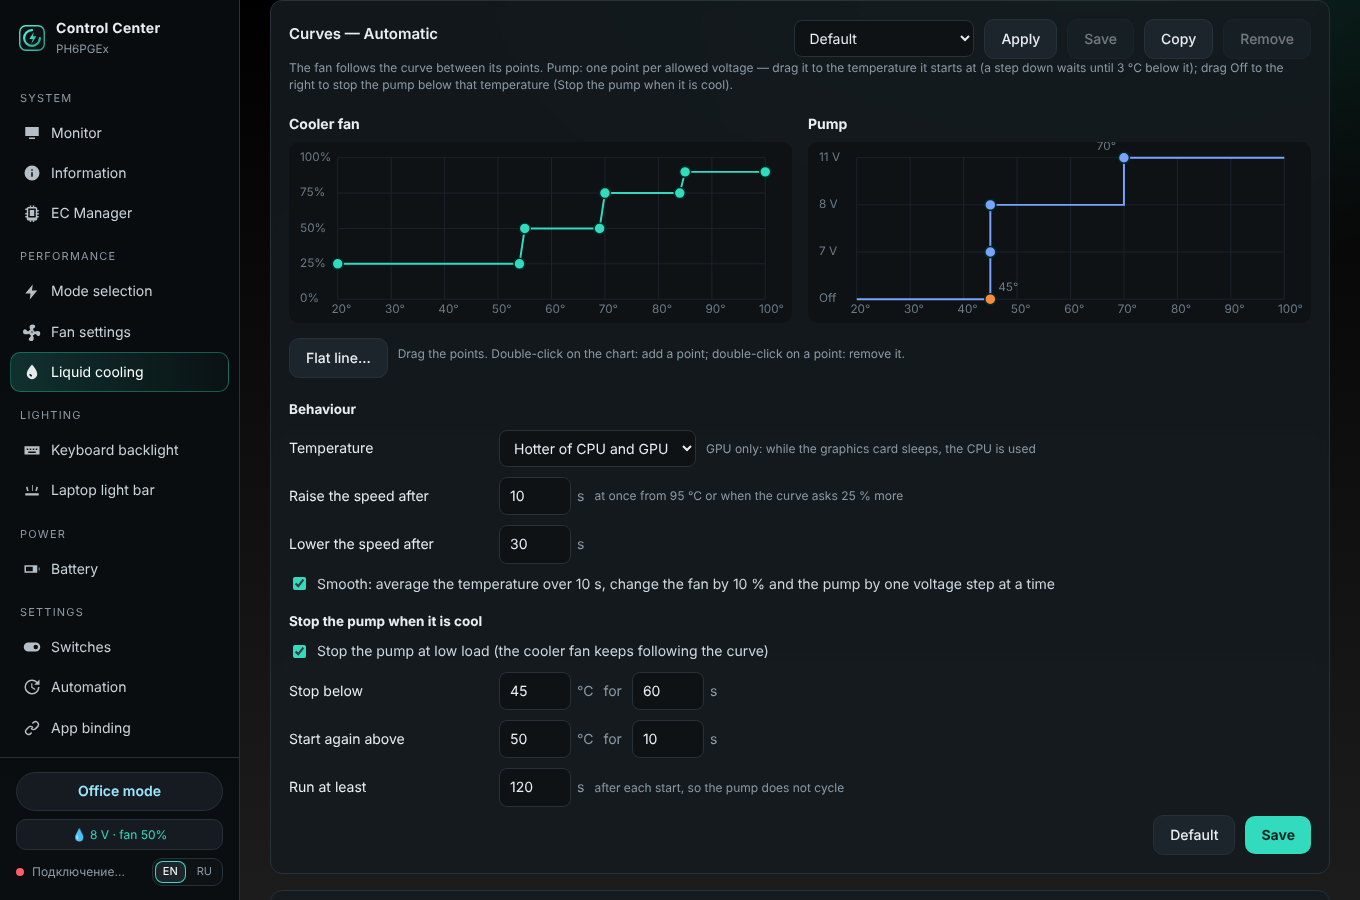
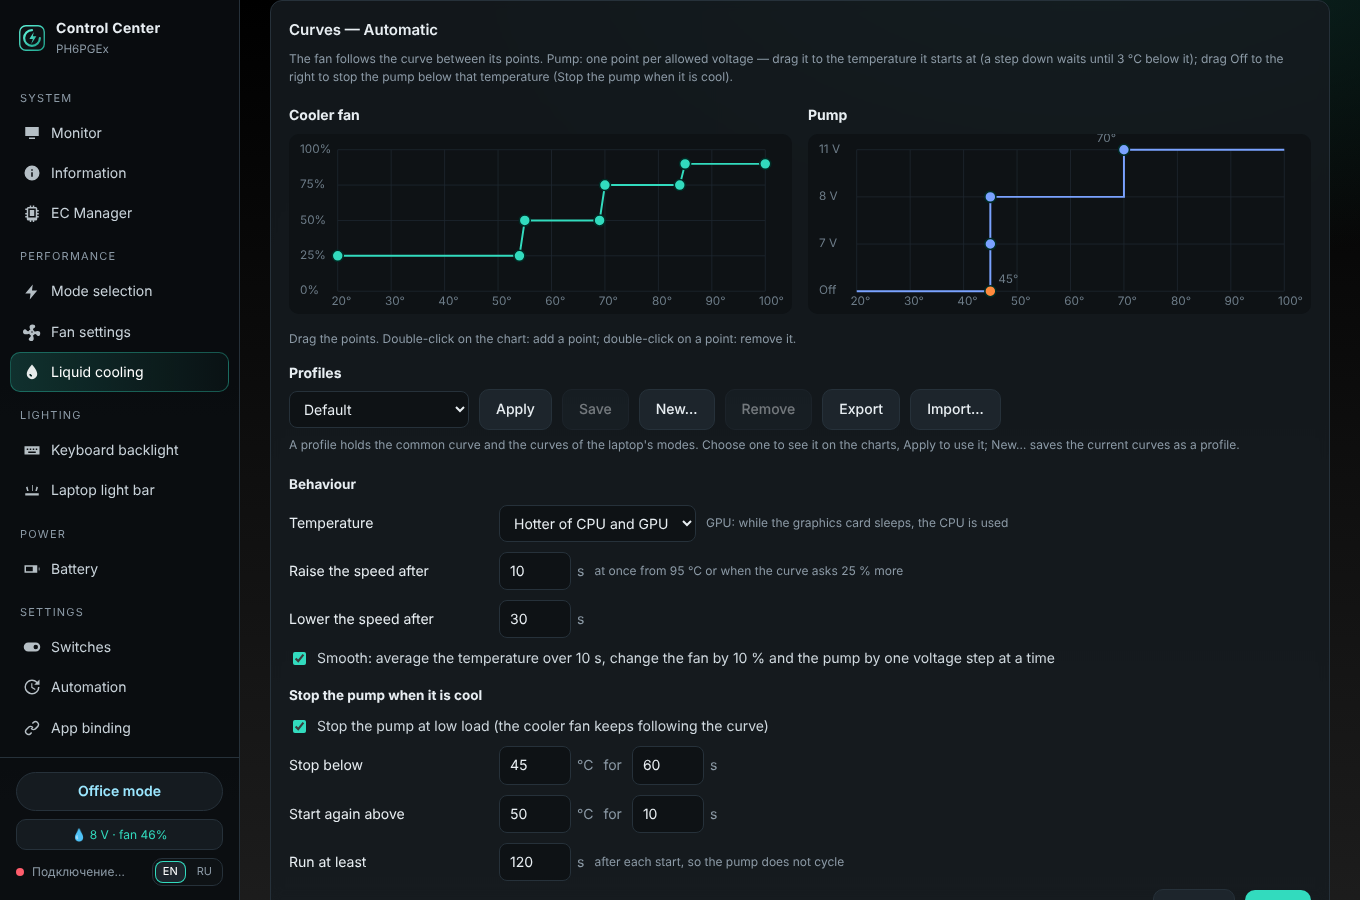
1.6.8: automatic profile switching, liquid cooler curves and profiles, own pump voltage limits

diff --git a/uwccd/web/app.js b/uwccd/web/app.js
@@ -543,18 +543,17 @@ function drawCurveNow() {
   const temp = gpu ? (m.gpu && !m.gpu.asleep ? m.gpu.temp : null) : m.cpu && m.cpu.temp;
   const duty = gpu ? m.fans.gpu_duty : m.fans.cpu_duty, rpm = gpu ? m.fans.gpu_rpm : m.fans.cpu_rpm;
   if (temp == null || duty == null) return;
-  // the dot lies on the curve at this sensor's temperature; the label has the real speed. When the fan runs clearly
-  // faster than its own curve, the EC drives it by the other side (on many models both fans follow the hotter one).
+  // the dot lies on the curve at this sensor's temperature; the label has the real speed (on many models the EC runs
+  // both fans by the hotter side, so the speed can be above this curve)
   const pts = activePts(); let lvl = pts[0];
   for (const p of pts) if (p.i === 0 || p.UpT <= temp) lvl = p;
   const own = lvl ? lvl.Duty : duty;
   const x = CX(Math.max(20, Math.min(100, temp))), y = CY(Math.max(0, Math.min(100, own)));
-  const by = duty > own + 3 ? " " + t("(driven by {0})", gpu ? "CPU" : "GPU") : "";
-  const label = `${temp} °C · ${rpm != null ? rpm + " " + t("rpm") : duty + " %"}${by}`;
+  const label = `${temp} °C · ${rpm != null ? rpm + " " + t("rpm") : duty + " %"}`;
   const c = document.createElementNS("http://www.w3.org/2000/svg", "circle");
   c.setAttribute("class", "now"); c.setAttribute("r", "6"); c.setAttribute("cx", x); c.setAttribute("cy", y);
   const tt = document.createElementNS("http://www.w3.org/2000/svg", "title");
-  tt.textContent = t("Now: {0} °C · {1} %", temp, duty) + (rpm != null ? ` · ${rpm} ${t("rpm")}` : "") + by; c.append(tt);
+  tt.textContent = t("Now: {0} °C · {1} %", temp, duty) + (rpm != null ? ` · ${rpm} ${t("rpm")}` : ""); c.append(tt);
   const tx = document.createElementNS("http://www.w3.org/2000/svg", "text"), left = x > 470, up = y > 246;
   tx.setAttribute("class", "now nowlbl"); tx.setAttribute("x", left ? x - 10 : x + 10); tx.setAttribute("y", up ? y - 12 : y + 22);
   tx.setAttribute("text-anchor", left ? "end" : "start"); tx.textContent = label;
@@ -1329,14 +1328,8 @@ function drawCurves(L) {
   const active = !pick && L.connected && ["auto", "laptop", "ec"].includes(c.mode) && L.curve_key === key ? L : null;
   const ed = $("#lc-editors"); ed.innerHTML = "";
   ed.append(lcFanEditor(set, key, readonly, active), lcPumpEditor(set, key, readonly, active));
-  $("#lc-flat").disabled = readonly;
-  for (const id of ["lc-prof", "lc-prof-apply", "lc-prof-save", "lc-prof-copy", "lc-prof-remove"]) if (viewOnly) $("#" + id).disabled = true;
-  if (!viewOnly) { $("#lc-prof").disabled = false; $("#lc-prof-copy").disabled = !!pick; }
-  $("#lc-flat").onclick = () => {
-    const v = prompt(t("Fan duty for the whole curve, %"), String(set.fan[set.fan.length - 1][1]));
-    if (v === null) return; const n = Math.max(0, Math.min(100, parseInt(v, 10) || 0));
-    lcPostCurve(key, { fan: [[LCX0, n], [LCX1, n]], pump: set.pump });
-  };
+  for (const id of ["lc-prof", "lc-prof-apply", "lc-prof-save", "lc-prof-copy", "lc-prof-remove", "lc-prof-import"]) if (viewOnly) $("#" + id).disabled = true;
+  if (!viewOnly) { $("#lc-prof").disabled = $("#lc-prof-import").disabled = false; $("#lc-prof-copy").disabled = !!pick; if (pick) $("#lc-prof-save").disabled = true; }
 }
 $("#lc-own").addEventListener("change", e => {
   const L = S.liquid; lcPostCurve(lcTab, e.target.checked ? JSON.parse(JSON.stringify(L.curves.common)) : null);
@@ -1363,7 +1356,7 @@ function lcCross(svg, P, temp, yv, label, flip) {      // the current point: a r
   d.append(lcEl("title", {}, label)); svg.append(d);
   lcNowLabel(svg, x, y, label, P.right, P.bot, flip);
 }
-// The red dots follow the temperature source: CPU only / GPU only (the CPU while the GPU sleeps) / both — two dots.
+// The red dots follow the temperature source: CPU / GPU (the CPU while the GPU sleeps) / both — two dots.
 // The sensor that drives the cooler shows the cooler's real output; the other one shows its point on the curve.
 function lcSensorDots(L) {
   const src = (lcCalm && lcCalm.temp_source) || L.config.temp_source || "max", m = lastMonitor;
@@ -1552,6 +1545,27 @@ $("#lc-prof-copy").addEventListener("click", () => {
   const n = prompt(t("Name of the new cooler profile"), ""); if (n && n.trim()) lcProf("copy", { name: n.trim() }, t("Profile saved"));
 });
 $("#lc-prof-remove").addEventListener("click", () => { if (confirm(t("Remove this cooler profile?"))) lcProf("remove", {}, t("Removed")); });
+// export: the chosen profile (or the current curves) as a JSON file; import: such a file becomes an own profile
+$("#lc-prof-export").addEventListener("click", () => {
+  const L = S.liquid, sel = $("#lc-prof"), p = L.profiles.find(x => x.id === sel.value);
+  const name = p ? sel.options[sel.selectedIndex].textContent.replace(/ · .*$/, "") : t("Current curves");
+  const data = { format: "uwcc-cooler-profile", version: 1, name, curves: p ? p.curves : L.curves };
+  const blob = new Blob([JSON.stringify(data, null, 2) + "\n"], { type: "application/json" });
+  const fn = "uwcc-cooler-" + (name.toLowerCase().replace(/[^a-z0-9а-яё]+/gi, "-").replace(/^-+|-+$/g, "") || "profile") + ".json";
+  const el = h("a", { href: URL.createObjectURL(blob), download: fn }); document.body.append(el); el.click(); el.remove();
+});
+$("#lc-prof-import").addEventListener("click", () => { const f = $("#lc-prof-file"); f.value = ""; f.click(); });
+$("#lc-prof-file").addEventListener("change", async e => {
+  const f = e.target.files && e.target.files[0]; if (!f) return;
+  let d;
+  try { d = JSON.parse(await f.text()); } catch (_) { return toast(t("This is not a cooler profile file"), true); }
+  if (!d || typeof d !== "object" || !d.curves) return toast(t("This is not a cooler profile file"), true);
+  const name = prompt(t("Name of the new cooler profile"), String(d.name || f.name.replace(/\.json$/i, "")).slice(0, 40));
+  if (!name || !name.trim()) return;
+  let rid = null;
+  await act(async () => { rid = (await api("lc/profile", { action: "import", name: name.trim(), curves: d.curves })).id; }, t("Profile imported"));
+  if (rid) { lcPick = rid; drawCurves(S.liquid); }      // shown on the charts; Apply uses it
+});
 // delays, smoothing, temperature source, pump stop when cool (auto / Controller modes)
 let lcCalm = null;
 function drawCalm(L) {
@@ -1570,12 +1584,12 @@ function drawCalm(L) {
     return h("label", { class: "chk" }, e, " ", h("span", {}, label));
   };
   const line = (label, ...ctrl) => h("div", { class: "calm-row" }, h("span", {}, label), h("div", { class: "row wrap", style: "gap:10px" }, ...ctrl));
-  const src = h("select", {}, ...[["max", "Hotter of CPU and GPU"], ["cpu", "CPU"], ["gpu", "GPU only"]].map(([v, n]) => {
+  const src = h("select", {}, ...[["max", "Hotter of CPU and GPU"], ["cpu", "CPU"], ["gpu", "GPU"]].map(([v, n]) => {
     const o = h("option", { value: v }, t(n)); if (k.temp_source === v) o.selected = true; return o; }));
   src.addEventListener("change", () => { k.temp_source = src.value; if (!lcDrag) drawCurves(S.liquid); });
   box.append(
     h("h4", {}, t("Behaviour")),
-    line(t("Temperature"), src, h("span", { class: "muted tiny" }, t("GPU only: while the graphics card sleeps, the CPU is used"))),
+    line(t("Temperature"), src, h("span", { class: "muted tiny" }, t("GPU: while the graphics card sleeps, the CPU is used"))),
     line(t("Raise the speed after"), num(k, "delay_up", 0, 300, t("s")), h("span", { class: "muted tiny" }, t("at once from 95 °C or when the curve asks 25 % more"))),
     line(t("Lower the speed after"), num(k, "delay_down", 0, 300, t("s"))),
     chk(k, "smooth", t("Smooth: average the temperature over 10 s, change the fan by 10 % and the pump by one voltage step at a time")),

diff --git a/uwccd/web/i18n.js b/uwccd/web/i18n.js
@@ -461,7 +461,7 @@ const RU = {
   // liquid cooler: calm control
   "Pump stopped: cool": "Помпа остановлена: прохладно",
   "Behaviour": "Поведение",
-  "GPU only: while the graphics card sleeps, the CPU is used": "Только GPU: пока видеокарта спит, используется CPU",
+  "GPU: while the graphics card sleeps, the CPU is used": "GPU: пока видеокарта спит, используется CPU",
   "Raise the speed after": "Повышать скорость через",
   "at once from 95 °C or 8 °C above the tier": "сразу при 95 °C или на 8 °C выше ступени",
   "Lower the speed after": "Понижать скорость через",
@@ -477,7 +477,6 @@ const RU = {
   "CPU + GPU": "CPU + GPU",
   "Switching to a lower tier also waits for the temperature to drop 3 °C below the threshold. In the Controller mode the table is used when the EC publishes no targets; the settings below apply to both modes.": "Переход на ступень ниже также ждёт, пока температура опустится на 3 °C ниже порога. В режиме «Контроллер» таблица используется, когда EC не публикует значения; настройки ниже действуют в обоих режимах.",
   "Hotter of CPU and GPU": "Более горячий из CPU и GPU",
-  "GPU only": "Только GPU",
   "Faster in {0} s if the temperature holds": "Быстрее через {0} с, если температура удержится",
   "Slower in {0} s if the temperature holds": "Медленнее через {0} с, если температура удержится",
   // 1.4.2: updates, report
@@ -834,7 +833,11 @@ Object.assign(RU, {
   "Now: {0} °C · {1} %": "Сейчас: {0} °C · {1} %",
   "The fan follows the curve between its points. Pump: one point per allowed voltage — drag it to the temperature it starts at (a step down waits until 3 °C below it); drag Off to the right to stop the pump below that temperature (Stop the pump when it is cool).":
     "Вентилятор следует кривой между точками. Помпа: по точке на каждое разрешённое напряжение — перетащите её на температуру, с которой оно включается (вниз — только на 3 °C ниже); перетащите «Выкл» вправо, чтобы помпа останавливалась ниже этой температуры («Останавливать помпу, когда прохладно»).",
-  "(driven by {0})": "(ведёт {0})", "Off: never": "Выкл: никогда", "Off below {0} °C": "Выкл ниже {0} °C",
+  "Profiles": "Профили", "New…": "Новый…", "Import…": "Импорт…", "Current curves": "Текущие кривые",
+  "A new profile from the current curves": "Новый профиль из текущих кривых", "Profile imported": "Профиль импортирован",
+  "This is not a cooler profile file": "Это не файл профиля охладителя",
+  "A profile holds the common curve and the curves of the laptop's modes. Choose one to see it on the charts, Apply to use it; New… saves the current curves as a profile.": "Профиль хранит общую кривую и кривые режимов ноутбука. Выберите профиль, чтобы увидеть его на графиках, «Применить» — чтобы включить; «Новый…» сохраняет текущие кривые как профиль.",
+  "Off: never": "Выкл: никогда", "Off below {0} °C": "Выкл ниже {0} °C",
   "Off: drag to the right to stop the pump when it is cool": "Выкл: перетащите вправо, чтобы помпа останавливалась, когда прохладно",
   "Off below {0} °C, on again from {1} °C (Stop the pump when it is cool)": "Выкл ниже {0} °C, снова вкл с {1} °C («Останавливать помпу, когда прохладно»)",
   "Own pump voltage limits": "Свои границы напряжения помпы", "At least one voltage must stay": "Должно остаться хотя бы одно напряжение",

diff --git a/uwccd/web/index.html b/uwccd/web/index.html
@@ -314,18 +314,22 @@
         </div>
 
         <div class="card" id="lc-curves-card">
-          <div class="row between wrap"><h3 id="lc-curves-title" data-i>Curves</h3>
-            <div class="row wrap lc-prof"><select id="lc-prof"></select>
-              <button class="btn ghost" id="lc-prof-apply" data-i>Apply</button>
-              <button class="btn ghost" id="lc-prof-save" data-i>Save</button>
-              <button class="btn ghost" id="lc-prof-copy" data-i>Copy</button>
-              <button class="btn ghost" id="lc-prof-remove" data-i>Remove</button></div></div>
+          <h3 id="lc-curves-title" data-i>Curves</h3>
           <p class="muted tiny" id="lc-curves-hint"></p>
           <div class="seg sm hidden" id="lc-curve-tabs"></div>
           <label class="chk hidden" id="lc-own-row"><input type="checkbox" id="lc-own"> <span id="lc-own-label"></span></label>
           <div class="lc-editors" id="lc-editors"></div>
-          <div class="row wrap" style="margin-top:6px"><button class="btn ghost" id="lc-flat" data-i>Flat line…</button>
-            <span class="muted tiny" data-i>Drag the points. Double-click on the chart: add a point; double-click on a point: remove it.</span></div>
+          <p class="muted tiny" style="margin:6px 0 0" data-i>Drag the points. Double-click on the chart: add a point; double-click on a point: remove it.</p>
+          <h4 class="lc-prof-h" data-i>Profiles</h4>
+          <div class="row wrap lc-prof"><select id="lc-prof"></select>
+            <button class="btn ghost" id="lc-prof-apply" data-i>Apply</button>
+            <button class="btn ghost" id="lc-prof-save" data-i>Save</button>
+            <button class="btn ghost" id="lc-prof-copy" data-i title="A new profile from the current curves">New…</button>
+            <button class="btn ghost" id="lc-prof-remove" data-i>Remove</button>
+            <button class="btn ghost" id="lc-prof-export" data-i>Export</button>
+            <button class="btn ghost" id="lc-prof-import" data-i>Import…</button>
+            <input type="file" id="lc-prof-file" accept=".json,application/json" class="hidden"></div>
+          <p class="muted tiny" id="lc-prof-hint" data-i>A profile holds the common curve and the curves of the laptop's modes. Choose one to see it on the charts, Apply to use it; New… saves the current curves as a profile.</p>
           <div class="lc-calm" id="lc-calm"></div>
           <div class="row" style="justify-content:flex-end;margin-top:8px"><button class="btn ghost" id="lc-calm-reset" data-i>Default</button><button class="btn" id="lc-calm-save" data-i>Save</button></div>
         </div>

diff --git a/uwccd/web/app.css b/uwccd/web/app.css
@@ -372,3 +372,5 @@ svg.lc-curve .pt.pt-off{fill:#ff8a3d}
 svg.lc-curve .pt.pt-off.idle{fill:#101418;stroke:#ff8a3d;stroke-width:2.5}
 .curve text.draglbl{fill:#e8f3f1;font-size:13px;font-weight:600;stroke:#101418;stroke-width:3px;paint-order:stroke;pointer-events:none}
 svg.lc-curve text.draglbl{font-size:16px}
+.lc-prof-h{margin:16px 0 6px}
+#lc-prof-hint{margin:6px 0 0}

diff --git a/uwccd/lc_curves.py b/uwccd/lc_curves.py
@@ -278,7 +278,7 @@ def modified(cfg):
 
 
 def profile_action(cfg, b):
-    """apply / save / copy / remove / rename -> changes cfg in place, returns the profile id concerned."""
+    """apply / save / copy / import / remove / rename -> changes cfg in place, returns the profile id concerned."""
     a = str(b.get("action", ""))
     user = cfg.setdefault("profiles", [])
     if a == "apply":
@@ -286,7 +286,7 @@ def profile_action(cfg, b):
         cfg["curves"] = copy.deepcopy(p["curves"])
         cfg["profile"] = p["id"]
         return p["id"]
-    if a == "copy":
+    if a in ("copy", "import"):
         name = str(b.get("name") or "").strip()[:40]
         if not name:
             raise ValueError("a name is needed")
@@ -297,8 +297,16 @@ def profile_action(cfg, b):
         ids = {p["id"] for p in profiles(cfg)}
         while pid in ids:
             pid, n = f"{base}-{n}", n + 1
-        user.append({"id": pid, "name": name, "curves": full(cfg.get("curves"))})
-        cfg["profile"] = pid
+        if a == "import":                         # a profile file: {"name": ..., "curves": {"common": ..., ...}}
+            cs = b.get("curves")
+            if not isinstance(cs, dict) or not cs.get("common"):
+                raise ValueError("a cooler profile needs curves with a common curve")
+            curves = check_curves(cs, None, ALL_VOLTAGES)
+        else:
+            curves = full(cfg.get("curves"))
+        user.append({"id": pid, "name": name, "curves": curves})
+        if a == "copy":                           # the current curves now are this profile; an import is only added
+            cfg["profile"] = pid
         return pid
     pid = str(b.get("id", ""))
     if pid in BUILTIN_PROFILES:

diff --git a/tests/test_mock.py b/tests/test_mock.py
@@ -825,6 +825,16 @@ class LiquidCoolerUnit(unittest.TestCase):
         lc.profile({"action": "apply", "id": "quiet"})
         lc.profile({"action": "apply", "id": "my-silent"})
         self.assertEqual(lc.status()["curves"]["common"]["fan"], [[40, 50], [60, 60]])
+        imp = lc.profile({"action": "import", "name": "From file",
+                          "curves": {"common": {"fan": [[30, 20], [90, 100]], "pump": [[0, 8], [60, 11]]}}})
+        self.assertEqual(imp, "from-file")
+        self.assertEqual(lc.status()["profile"], "my-silent")                  # an import is only added
+        self.assertEqual(LCV.find(lc.cfg, "from-file")["curves"]["common"]["fan"], [[30, 20], [90, 100]])
+        with self.assertRaises(ValueError):
+            lc.profile({"action": "import", "name": "Bad", "curves": {"common": {"fan": [[30, 50]], "pump": [[0, 8]]}}})
+        with self.assertRaises(ValueError):
+            lc.profile({"action": "import", "name": "Empty", "curves": {}})
+        lc.profile({"action": "remove", "id": "from-file"})
         lc.profile({"action": "rename", "id": "my-silent", "name": "Night"})
         lc.profile({"action": "remove", "id": "my-silent"})
         self.assertNotIn("my-silent", [p["id"] for p in lc.status()["profiles"]])

diff --git a/CHANGELOG.md b/CHANGELOG.md
@@ -10,8 +10,6 @@
   change the mode. Templates, reordering; `uwccctl rules [list|export|import|enable|disable|clear]`.
 - **Fan settings: a red dot shows the fan's current temperature and speed** on the curve of the active table
   (CPU or GPU, with full monitoring): it lies on the curve at the sensor's temperature, the label has the real rpm.
-  When the fan runs clearly faster than its own curve, the label says *(driven by CPU / GPU)* — on many models the EC
-  runs both fans by the hotter side.
 - **Dragging a point** on any chart (fan settings, cooler fan, pump, Off) shows its temperature and value next to it.
 - **Fan settings: the *Off, °C* row is hidden.** The return to the lower level follows the next level's *On* by
   itself (keeping the distance the table had); *Show the return temperatures* brings the row back.
@@ -19,7 +17,7 @@
   - **Modes in two rows:** Automatic, Follow the laptop, Controller, Manual / High, Medium, Low, Off.
   - **Automatic** follows a **fan curve** (2..17 points, linear between them) and **pump steps** (off / 7 / 8 / 11 V; a step
     down waits until 3 °C below it). Both are edited by dragging the points (double-click adds / removes a point);
-    a red dot shows the current temperature and value, labelled with them. *Flat line…* makes a fixed duty.
+    a red dot shows the current temperature and value, labelled with them.
   - **Follow the laptop** uses the same **common** curve, or **its own curve** for each laptop mode (tabs Common /
     Office / Gaming / Turbo / Custom, *Own curve for this mode*). A mode change switches the curve at once; the fan
     still ramps. The Controller mode falls back to the common curve when the EC publishes no targets.
@@ -31,12 +29,13 @@
     (after the minimum run time) and starts again a few degrees above it. The pump curve itself has no Off level any
     more (an older curve's leading Off step is dropped).
   - **Cooler profiles:** Default (the factory steps of 1.6.7), Quiet, Balanced, Performance and your own — Apply / Save /
-    Copy / Remove (a profile holds the common and the per-mode curves); a profile picked in the list is shown on the
-    charts before Apply; `uwccctl lc profile …`.
+    New… / Remove / Export / Import… (a profile holds the common and the per-mode curves; a profile file is JSON),
+    in the *Profiles* block under the charts; a profile picked in the list is shown on the charts before Apply;
+    `uwccctl lc profile … | export ID [FILE] | import FILE [NAME]`.
   - `uwccctl lc curve [KEY] [fan T:D … pump T:V …]`, `lc curve KEY flat N`, `lc curve MODE off`; `lc tiers` still
     works and becomes the common curve.
   - The charts look like the fan curve of *Fan settings*; fan and pump side by side on a wide window.
-  - The red dots follow *Temperature*: CPU only — the CPU dot, GPU only — the GPU dot (the CPU while the GPU
+  - The red dots follow *Temperature*: CPU — the CPU dot, GPU — the GPU dot (the CPU while the GPU
     sleeps), hotter of CPU and GPU — two dots. The sensor that drives the cooler shows its real output, the other its
     point on the curve.
   - **Own pump voltage limits** (after a risk warning): choose which of 7 / 8 / 11 / 12 V may be used — the cooler

diff --git a/docs/CLI.md b/docs/CLI.md
@@ -161,6 +161,7 @@ Automatic profile switching (power / temperature / load): `rules` (list and stat
 | `lc curve KEY fan T:D ... [pump T:V ...]` | set a curve: fan 2..17 points (°C:%), pump 1..4 steps (from °C:V, 7/8/11 V: e.g. `pump 0:7 50:8 70:11`); the pump is stopped by `lc idle` (the Off point) |
 | `lc curve KEY flat FAN [PUMP]` / `lc curve MODE off` | a flat curve / the mode uses the common curve |
 | `lc profile [list\|apply ID\|save ID\|copy NAME\|remove ID\|rename ID NAME]` | cooler profiles (built-in: default, quiet, balanced, performance) |
+| `lc profile export ID [FILE]` / `lc profile import FILE [NAME]` | a cooler profile as a JSON file (`{"name", "curves"}`); an import is added as an own profile |
 | `lc tiers BELOW:FAN:PUMP ...` | old tier form (1.6.7), becomes the common curve |
 | `lc pump-limits 7,8,11,12 --accept-risks` / `lc pump-limits off` | own pump voltages (of 7/8/11/12 V) / back to 7–11 V |
 | `lc set KEY VALUE` | `temp_source max\|cpu\|gpu`, `delay_up`/`delay_down` 0..300 s, `smooth` `notify_flow` `flow_guard` `boost_fan` `boost_pump` on/off |
